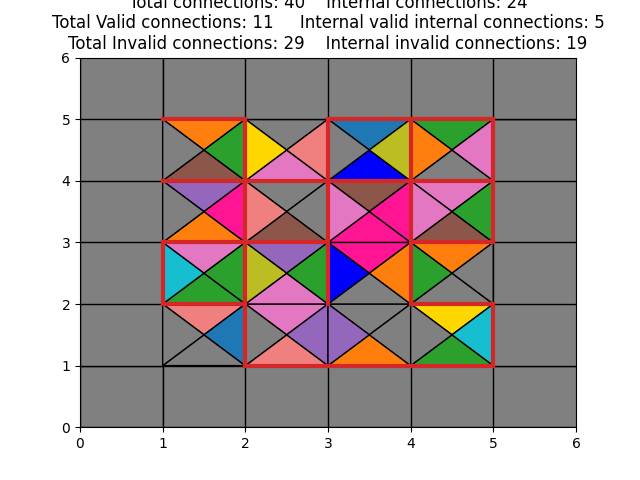
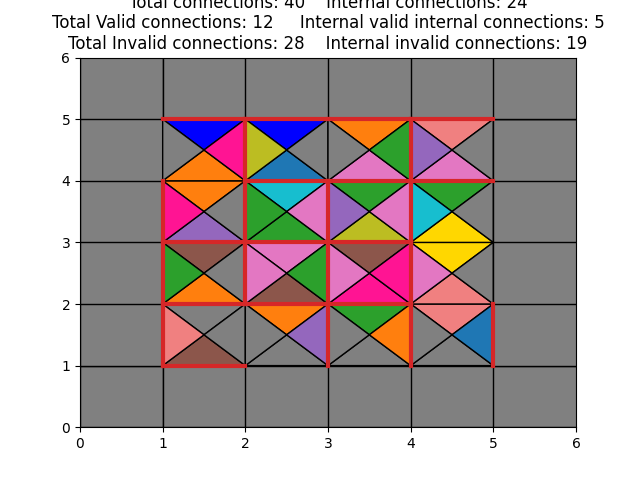
New version : setting the edges first
I tried a new heuristic : setting the edges first and then the inner pieces. But it performs less well than the first version :(

Changed region(s): [[0.25, 0.2188, 0.7812, 0.7812], [0.4062, 0.0312, 0.4375, 0.0625]]

diff --git a/Projet/code/solver_heuristic.py b/Projet/code/solver_heuristic.py
@@ -1,37 +1,7 @@
 import numpy as np
 import math
 import copy
-
-
-def solve_heuristic(eternity_puzzle):
-    """
-    Heuristic solution of the problem
-    :param eternity_puzzle: object describing the input
-    :return: a tuple (solution, cost) where solution is a list of the pieces (rotations applied) and
-        cost is the cost of the solution
-    """
-    solution = []
-
-    remaining_piece = copy.deepcopy(eternity_puzzle.piece_list)
-
-    for i in range(eternity_puzzle.n_piece):
-        best_cost = math.inf
-        
-        for piece in remaining_piece:
-            for rotated_piece in eternity_puzzle.generate_rotation(piece):
-                tested_solution = solution.copy()
-                tested_solution.append(rotated_piece)
-                cost = get_current_cost(tested_solution, eternity_puzzle)
-
-                if cost <= best_cost:
-                    best_cost = cost
-                    best_piece = piece
-                    best_oriented_piece = rotated_piece
-
-        solution.append(best_oriented_piece)
-        remaining_piece.remove(best_piece)
-
-    return (solution, eternity_puzzle.get_total_n_conflict(solution))
+import itertools
 
 
 GRAY = 0
@@ -45,7 +15,137 @@ WEST = 2
 EAST = 3
 
 
-def get_current_cost(solution, eternity_puzzle):
+def solve_heuristic(eternity_puzzle):
+    """
+    Heuristic solution of the problem
+    :param eternity_puzzle: object describing the input
+    :return: a tuple (solution, cost) where solution is a list of the pieces (rotations applied) and
+        cost is the cost of the solution
+    """
+
+    remaining_piece = copy.deepcopy(eternity_puzzle.piece_list)
+
+    solution_grid = [
+        [(0, 0, 0, 0) for _ in range(eternity_puzzle.board_size)]
+        for _ in range(eternity_puzzle.board_size)
+    ]
+
+    edges_and_corners = []
+
+    for piece in eternity_puzzle.piece_list:
+        if GRAY in piece:
+            remaining_piece.remove(piece)
+            edges_and_corners.append(piece)
+
+    # Search for the best layout for edges and corners only
+    for i in range(eternity_puzzle.board_size):
+        for j in range(eternity_puzzle.board_size):
+
+            if (
+                i == 0
+                or j == 0
+                or i == eternity_puzzle.board_size - 1
+                or j == eternity_puzzle.board_size - 1
+            ):
+                print(edges_and_corners)
+
+                best_cost = math.inf
+                for piece in edges_and_corners:
+                    for rotated_piece in eternity_puzzle.generate_rotation(piece):
+                        tested_solution = solution_grid.copy()
+                        tested_solution[i][j] = rotated_piece
+                        cost = get_current_edges_cost(tested_solution, eternity_puzzle)
+
+                        if cost <= best_cost:
+                            best_cost = cost
+                            best_piece = piece
+                            best_oriented_piece = rotated_piece
+
+                solution_grid[i][j] = best_oriented_piece
+                edges_and_corners.remove(best_piece)
+
+    # Search for the best layout with the remaining inner pieces:
+    for i in range(eternity_puzzle.board_size):
+        for j in range(eternity_puzzle.board_size):
+            if (
+                i != 0
+                and j != 0
+                and i != eternity_puzzle.board_size - 1
+                and j != eternity_puzzle.board_size - 1
+            ):
+
+                best_cost = math.inf
+
+                for piece in remaining_piece:
+
+                    for rotated_piece in eternity_puzzle.generate_rotation(piece):
+
+                        tested_solution = solution_grid.copy()
+                        tested_solution[i][j] = rotated_piece
+                        cost = get_inner_cost(tested_solution, eternity_puzzle)
+
+                        if cost <= best_cost:
+                            best_cost = cost
+                            best_piece = piece
+                            best_oriented_piece = rotated_piece
+
+                if len(remaining_piece) > 0:
+                    solution_grid[i][j] = best_oriented_piece
+                    remaining_piece.remove(best_piece)
+
+    # Flatten the grid to a list
+    solution = []
+    for row in solution_grid:
+        for piece in row:
+            solution.append(piece)
+
+    print(eternity_puzzle.piece_list)
+    print(solution)
+
+    return (solution, eternity_puzzle.get_total_n_conflict(solution))
+
+
+def get_current_edges_cost(solution, eternity_puzzle):
+
+    n_conflict = 0
+    for i in range(eternity_puzzle.board_size):
+
+        if solution[0][i][SOUTH] != GRAY:
+            n_conflict += 1
+
+        if solution[eternity_puzzle.board_size - 1][i][NORTH] != GRAY:
+            n_conflict += 1
+
+        if solution[i][eternity_puzzle.board_size - 1][EAST] != GRAY:
+            n_conflict += 1
+
+        if solution[i][0][WEST] != GRAY:
+            n_conflict += 1
+
+        if i > 0 and solution[i][0][SOUTH] != solution[i - 1][0][NORTH]:
+            n_conflict += 1
+
+        if (
+            i > 0
+            and solution[i][eternity_puzzle.board_size - 1][SOUTH]
+            != solution[i - 1][eternity_puzzle.board_size - 1][NORTH]
+        ):
+            n_conflict += 1
+
+        if i > 0 and solution[0][i][WEST] != solution[i - 1][0][EAST]:
+            n_conflict += 1
+
+        if (
+            i > 0
+            and solution[eternity_puzzle.board_size - 1][i][WEST]
+            != solution[eternity_puzzle.board_size - 1][i - 1][EAST]
+        ):
+            n_conflict += 1
+
+    return n_conflict
+
+
+def get_inner_cost(solution, eternity_puzzle):
 
     n_conflict = 0
 
@@ -67,31 +167,16 @@ def get_current_cost(solution, eternity_puzzle):
                 k = eternity_puzzle.board_size * j + i
                 k_west = eternity_puzzle.board_size * j + (i - 1)
                 k_south = eternity_puzzle.board_size * (j - 1) + i
-                print(
-                    "\n solution {} \n n_placed {} \n n_lines {}\n n_columns {}\n i : {} \n j : {} \n k : {} \n k_west {} \n k_south {}".format(
-                        solution, n_placed, n_lines, n_columns, i, j, k, k_west, k_south
-                    )
-                )
-
-                if i == 0 and solution[k][WEST] != GRAY:
-                    n_conflict += 1
-
-                if i == eternity_puzzle.board_size - 1 and solution[k][EAST] != GRAY:
-                    n_conflict += 1
+                # print(
+                #     "\n solution {} \n n_placed {} \n n_lines {}\n n_columns {}\n i : {} \n j : {} \n k : {} \n k_west {} \n k_south {}".format(
+                #         solution, n_placed, n_lines, n_columns, i, j, k, k_west, k_south
+                #     )
+                # )
 
                 if i > 0 and solution[k][WEST] != solution[k_west][EAST]:
                     n_conflict += 1
 
-                if i == eternity_puzzle.board_size - 1 and solution[k][EAST] != GRAY:
-                    n_conflict += 1
-
                 if j > 0 and solution[k][SOUTH] != solution[k_south][NORTH]:
-                    n_conflict += 1
-
-                if j == 0 and solution[k][SOUTH] != GRAY:
-                    n_conflict += 1
-
-                if j == eternity_puzzle.board_size - 1 and solution[k][NORTH] != GRAY:
                     n_conflict += 1
 
     return n_conflict

diff --git a/Projet/code/solver_heuristicv1.py b/Projet/code/solver_heuristicv1.py
@@ -1,0 +1,97 @@
+import numpy as np
+import math
+import copy
+
+
+def solve_heuristic(eternity_puzzle):
+    """
+    Heuristic solution of the problem
+    :param eternity_puzzle: object describing the input
+    :return: a tuple (solution, cost) where solution is a list of the pieces (rotations applied) and
+        cost is the cost of the solution
+    """
+    solution = []
+
+    remaining_piece = copy.deepcopy(eternity_puzzle.piece_list)
+
+    for i in range(eternity_puzzle.n_piece):
+        best_cost = math.inf
+        
+        for piece in remaining_piece:
+            for rotated_piece in eternity_puzzle.generate_rotation(piece):
+                tested_solution = solution.copy()
+                tested_solution.append(rotated_piece)
+                cost = get_current_cost(tested_solution, eternity_puzzle)
+
+                if cost <= best_cost:
+                    best_cost = cost
+                    best_piece = piece
+                    best_oriented_piece = rotated_piece
+
+        solution.append(best_oriented_piece)
+        remaining_piece.remove(best_piece)
+
+    return (solution, eternity_puzzle.get_total_n_conflict(solution))
+
+
+GRAY = 0
+BLACK = 23
+RED = 24
+WHITE = 25
+
+NORTH = 0
+SOUTH = 1
+WEST = 2
+EAST = 3
+
+
+def get_current_cost(solution, eternity_puzzle):
+
+    n_conflict = 0
+
+    n_placed = len(solution)
+    n_lines = (
+        n_placed // eternity_puzzle.board_size + 1
+        if n_placed % eternity_puzzle.board_size != 0
+        else n_placed // eternity_puzzle.board_size
+    )
+    n_columns = (
+        eternity_puzzle.board_size
+        if n_lines > 1
+        else n_placed % eternity_puzzle.board_size
+    )
+
+    for j in range(n_lines):
+        for i in range(n_columns):
+            if eternity_puzzle.board_size * j + i < n_placed:
+                k = eternity_puzzle.board_size * j + i
+                k_west = eternity_puzzle.board_size * j + (i - 1)
+                k_south = eternity_puzzle.board_size * (j - 1) + i
+                print(
+                    "\n solution {} \n n_placed {} \n n_lines {}\n n_columns {}\n i : {} \n j : {} \n k : {} \n k_west {} \n k_south {}".format(
+                        solution, n_placed, n_lines, n_columns, i, j, k, k_west, k_south
+                    )
+                )
+
+                if i == 0 and solution[k][WEST] != GRAY:
+                    n_conflict += 1
+
+                if i == eternity_puzzle.board_size - 1 and solution[k][EAST] != GRAY:
+                    n_conflict += 1
+
+                if i > 0 and solution[k][WEST] != solution[k_west][EAST]:
+                    n_conflict += 1
+
+                if i == eternity_puzzle.board_size - 1 and solution[k][EAST] != GRAY:
+                    n_conflict += 1
+
+                if j > 0 and solution[k][SOUTH] != solution[k_south][NORTH]:
+                    n_conflict += 1
+
+                if j == 0 and solution[k][SOUTH] != GRAY:
+                    n_conflict += 1
+
+                if j == eternity_puzzle.board_size - 1 and solution[k][NORTH] != GRAY:
+                    n_conflict += 1
+
+    return n_conflict

diff --git a/Projet/code/main.py b/Projet/code/main.py
@@ -11,17 +11,16 @@ def parse_arguments():
     parser = argparse.ArgumentParser()
 
     # Instances parameters
-    parser.add_argument('--agent', type=str, default='random')
-    parser.add_argument('--infile', type=str, default='input')
-    parser.add_argument('--outfile', type=str, default='solution.txt')
-    parser.add_argument('--visufile', type=str, default='visualization.png')
+    parser.add_argument("--agent", type=str, default="random")
+    parser.add_argument("--infile", type=str, default="input")
+    parser.add_argument("--outfile", type=str, default="solution.txt")
+    parser.add_argument("--visufile", type=str, default="visualization.png")
 
     return parser.parse_args()
 
 
-if __name__ == '__main__':
+if __name__ == "__main__":
     args = parse_arguments()
-
 
     e = eternity_puzzle.EternityPuzzle(args.infile)
 
@@ -30,12 +29,11 @@ if __name__ == '__main__':
     print("[INFO] input file: %s" % args.infile)
     print("[INFO] output file: %s" % args.outfile)
     print("[INFO] visualization file: %s" % args.visufile)
-    print("[INFO] board size: %s x %s" % (e.board_size,e.board_size))
+    print("[INFO] board size: %s x %s" % (e.board_size, e.board_size))
     print("[INFO] solver selected: %s" % args.agent)
     print("***********************************************************")
 
     start_time = time.time()
-
 
     if args.agent == "random":
         # Take the best of 1,000,000 random trials
@@ -51,11 +49,10 @@ if __name__ == '__main__':
         solution, n_conflict = solver_advanced.solve_advanced(e)
     else:
         raise Exception("This agent does not exist")
-    solving_time = round((time.time() - start_time) / 60,2)
+    solving_time = round((time.time() - start_time) / 60, 2)
 
-    e.display_solution(solution,args.visufile)
+    e.display_solution(solution, args.visufile)
     e.print_solution(solution, args.outfile)
-
 
     print("***********************************************************")
     print("[INFO] Solution obtained")
